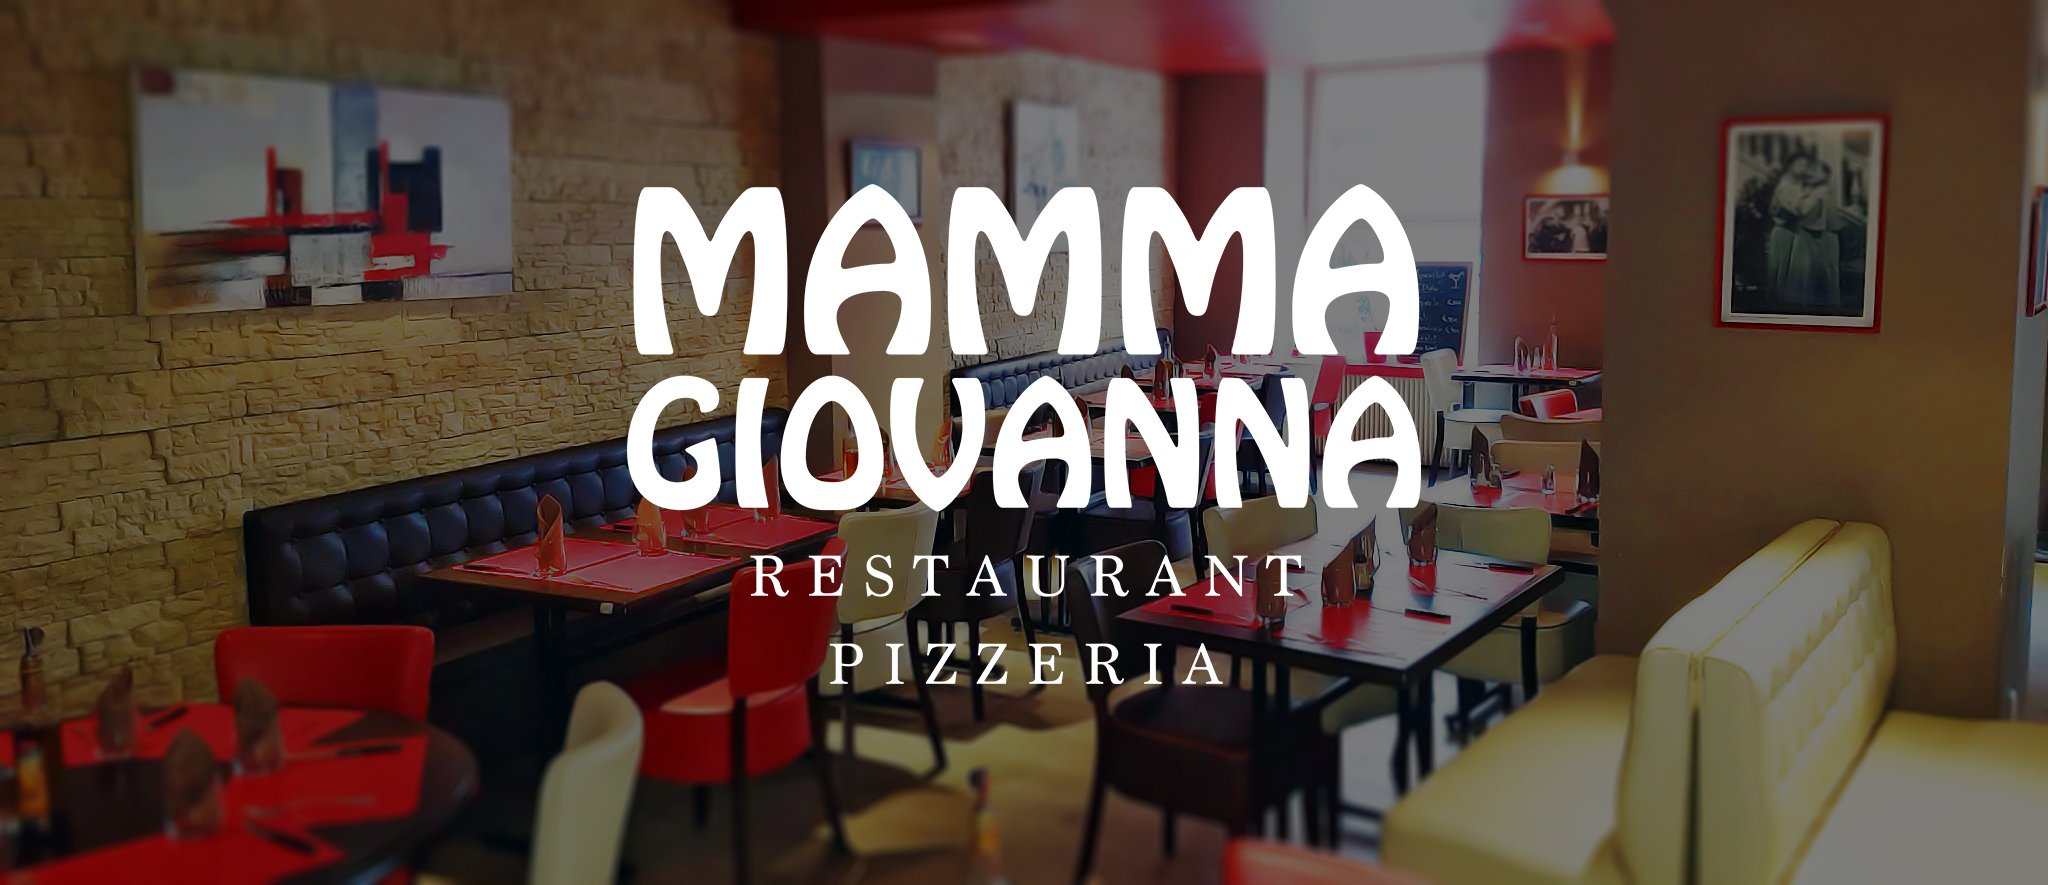
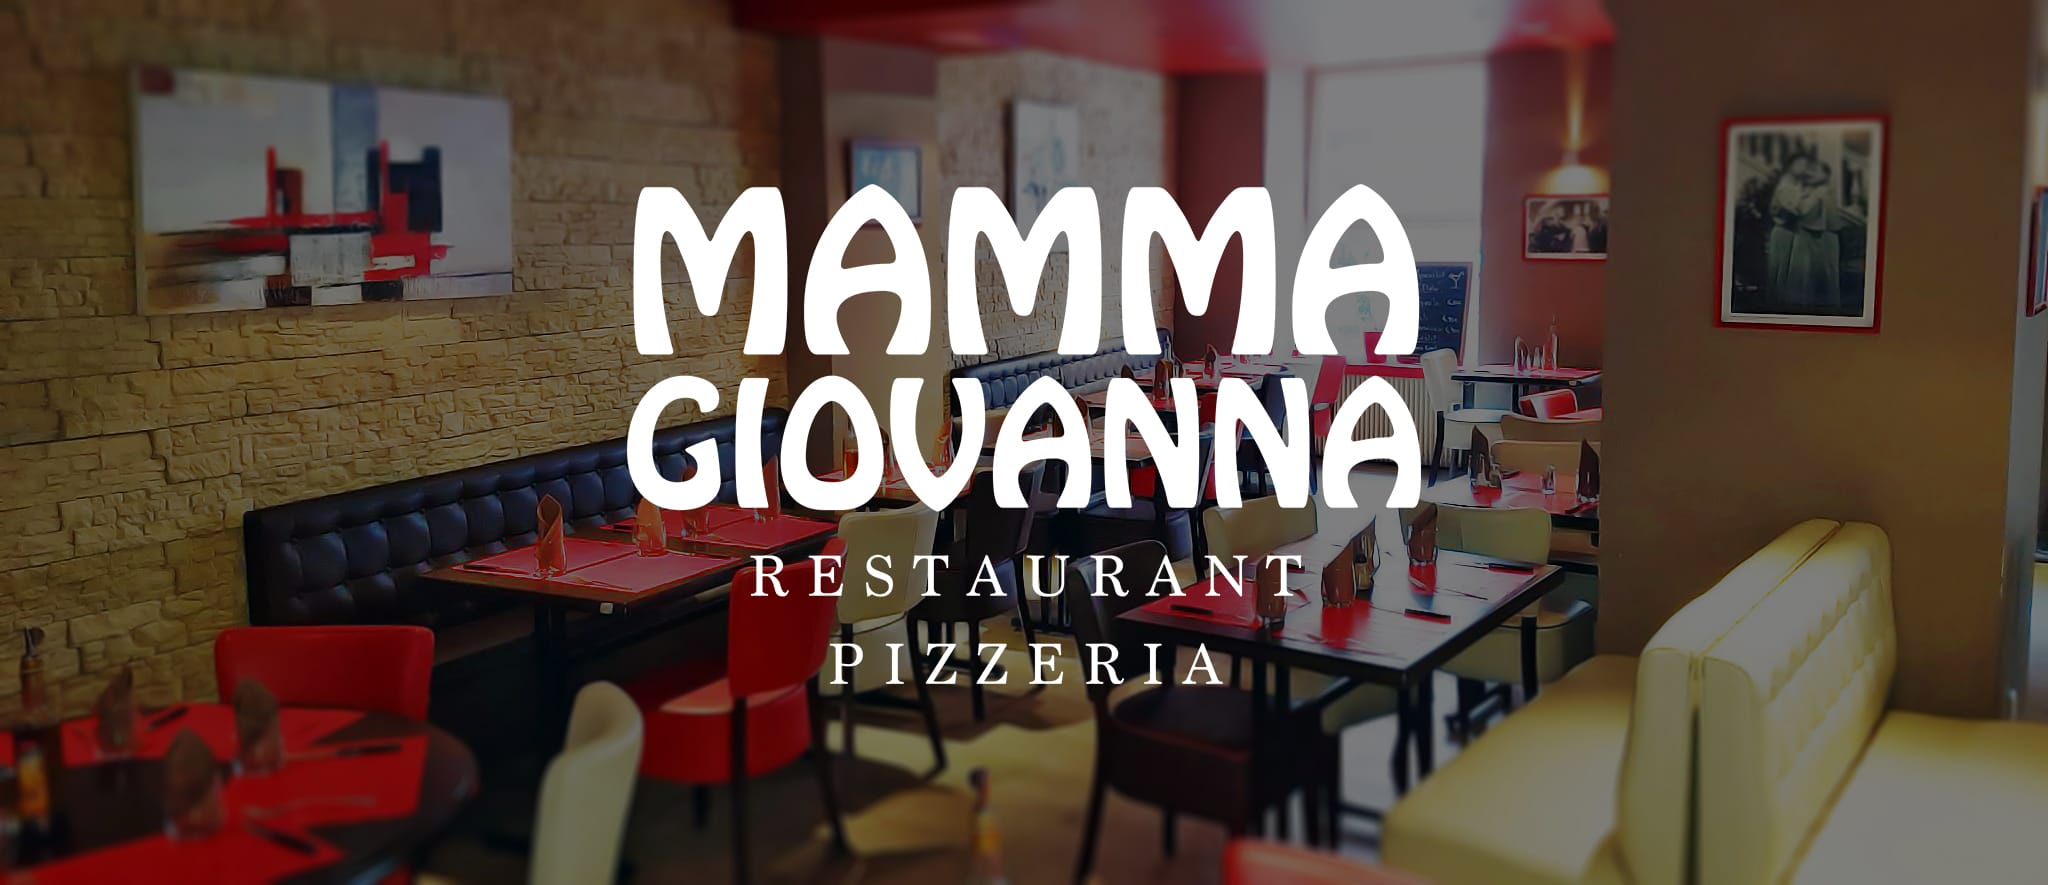
lighten heavy image to improve first load performance

diff --git a/components/Nav.js b/components/Nav.js
@@ -31,7 +31,7 @@ const Nav = ({ t }) => {
     <>
       <NavBar>
         <NavToolbar>
-          <HeaderLogo src="/logo-txt-vector.png" alt="Mamma Giovanna's logo" />
+          <HeaderLogo src="/logo-txt-vector-base.svg" alt="Mamma Giovanna's logo" />
           <NavlinkContainer>
             <Navlink />
           </NavlinkContainer>

diff --git a/components/Banner.js b/components/Banner.js
@@ -3,7 +3,10 @@ import styled from 'styled-components';
 
 const Banner = () => {
   return (
-    <ImgBanner src="/sallev4.jpg" alt="Mamma Giovanna restaurant room" />
+    <ImgBanner
+      src="/sallev4.jpg"
+      alt="Mamma Giovanna restaurant room"
+    />
   );
 };
 
